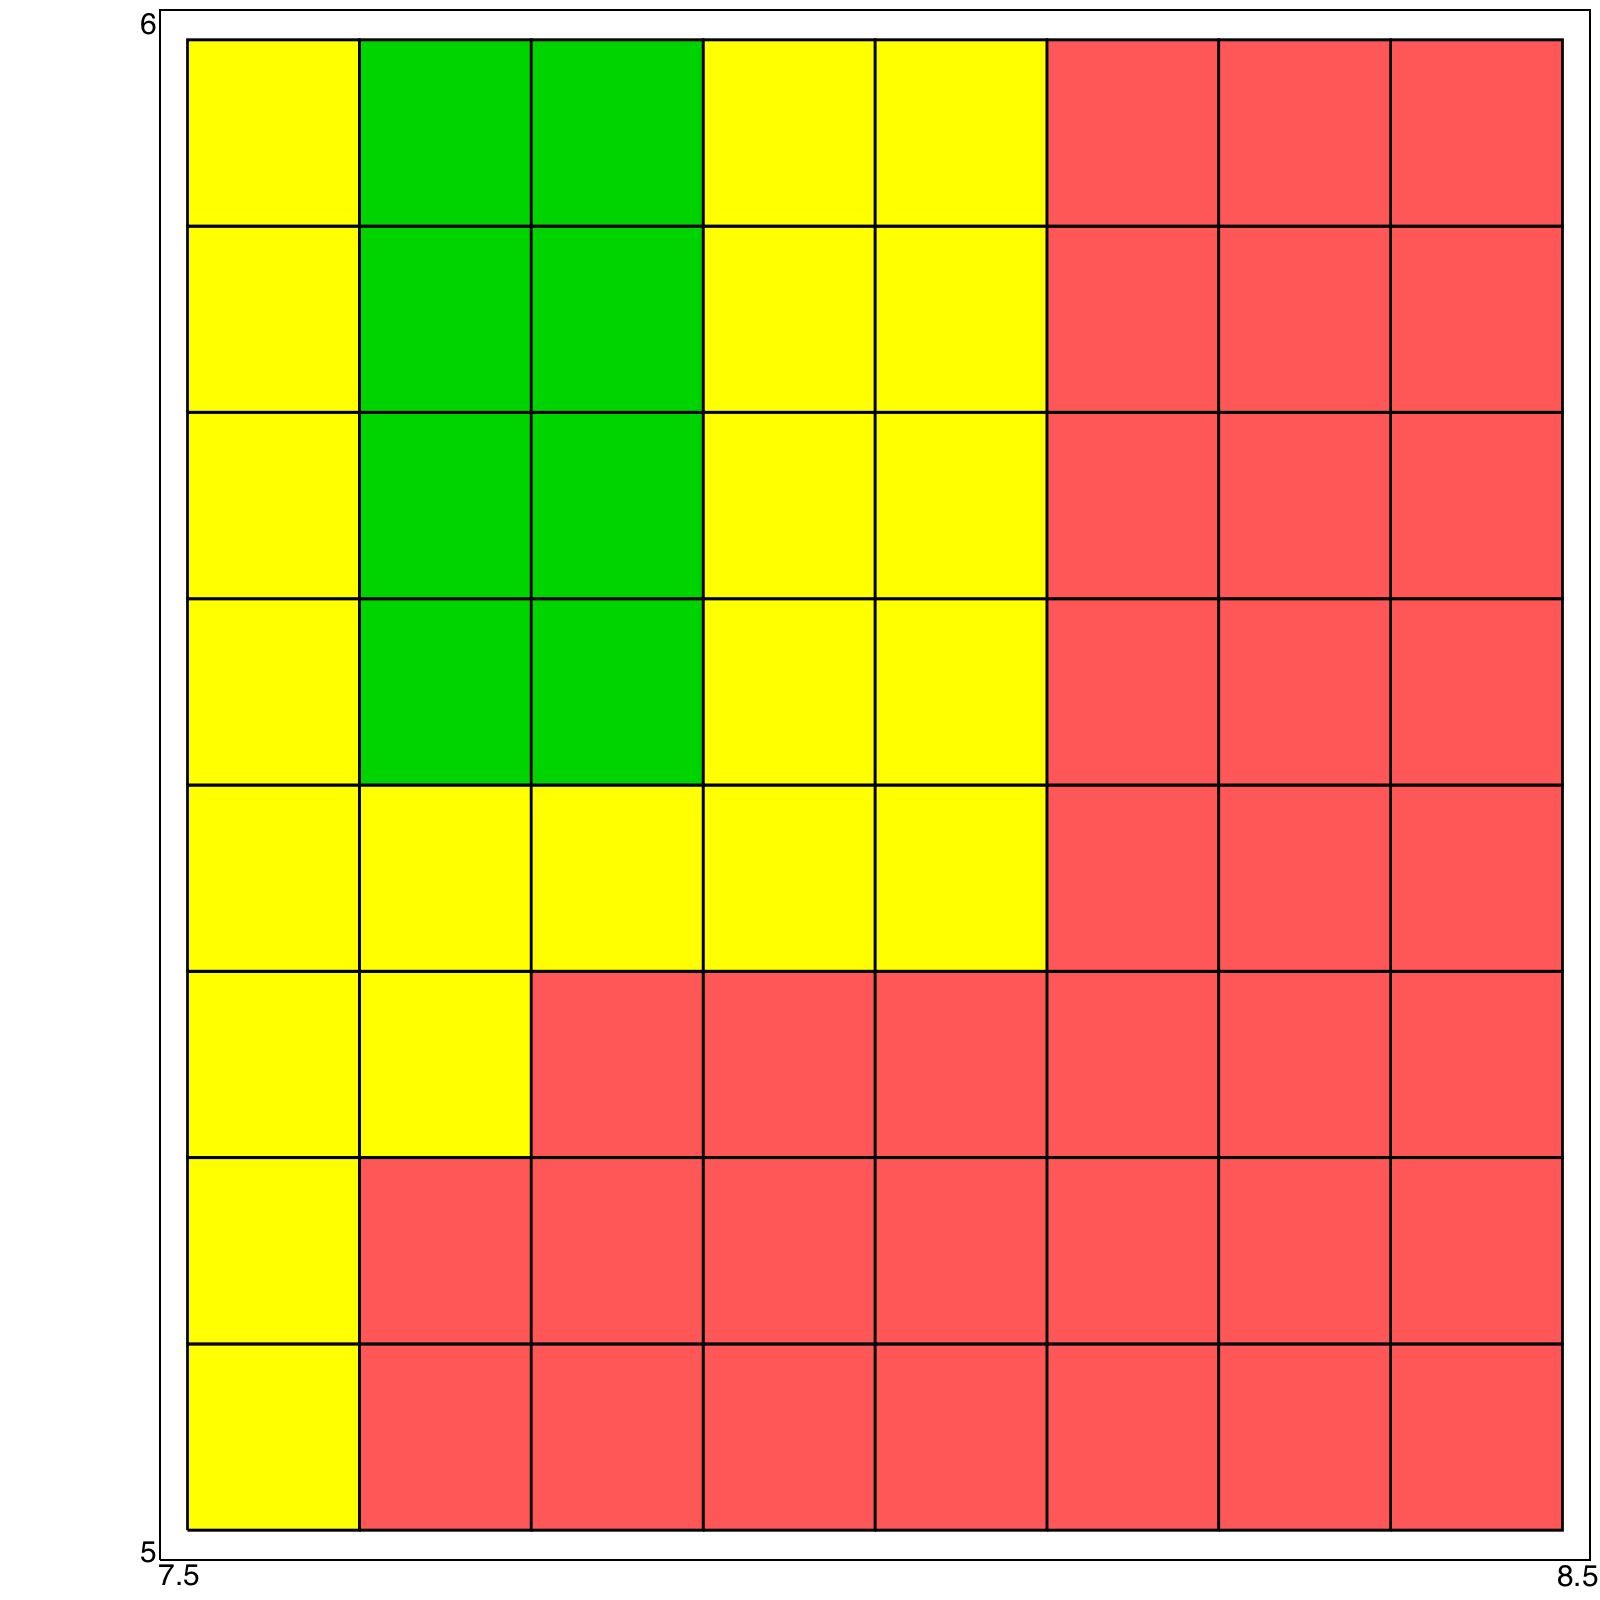
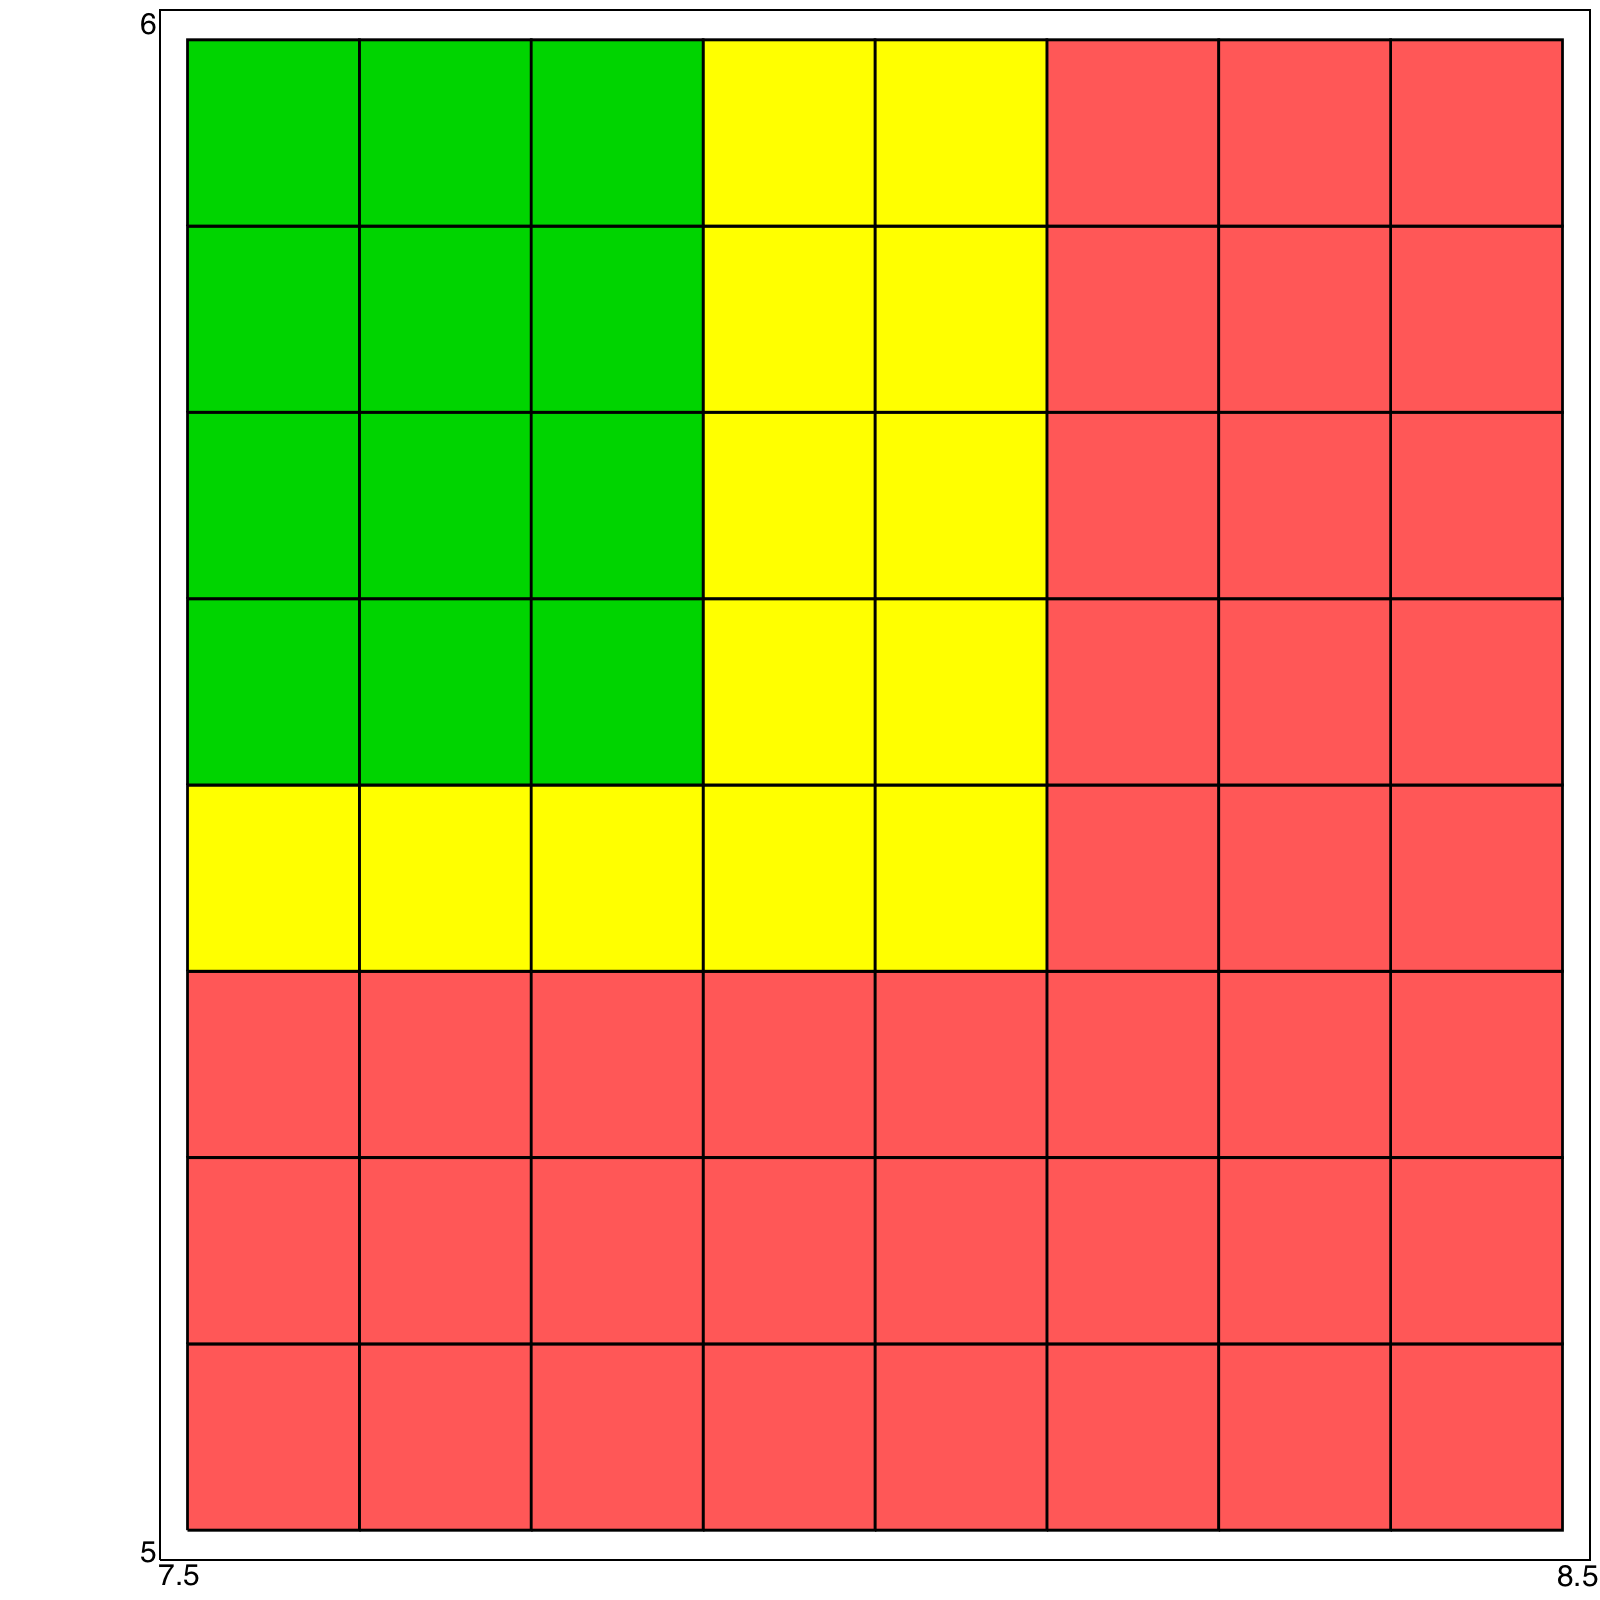
Updated parametric safety content

Changed region(s): [[0.0938, 0.0, 0.25, 0.5], [0.0938, 0.5938, 0.3438, 0.9688]]

diff --git a/content/tutorial.md b/content/tutorial.md
@@ -720,4 +720,4 @@ which returns a figure for each couple of parameters.
 
 ![parametric-safety](/img/parametric-safety.png "Parametric safety verification results")
 
-Since the parameters are ordered alphabetically, `hmax` is on the x-axis and `hmin` is on the y-axis. As intuition suggests, the system is safe (green) for low values of $h\_{\max}$ and high values of $h\_{\min}$ and unsafe (red) otherwise. The yellow boxes are the result of an insufficient accuracy in respect to the chosen `ttl`. While for the region between green and red boxes the indeterminate result is somehow expected, it is interesting to note the presence of yellow boxes on the leftmost region. This anomaly is purely numerical, due to convergence issues for the specific values of the resulting sustem. If we used a higher `maximum_parameter_depth`, then the yellow bands would grow thinner, yielding larger regions where a true or false value is identified.
+Since the parameters are ordered alphabetically, `hmax` is on the x-axis and `hmin` is on the y-axis. As intuition suggests, the system is safe (green) for low values of $h\_{\max}$ and high values of $h\_{\min}$ and unsafe (red) otherwise. The indeterminate (yellow) boxes are the result of an insufficient accuracy in respect to the chosen `ttl`. If we used a higher `maximum_parameter_depth`, then the yellow bands would grow thinner, yielding larger regions where a true or false value is identified.
